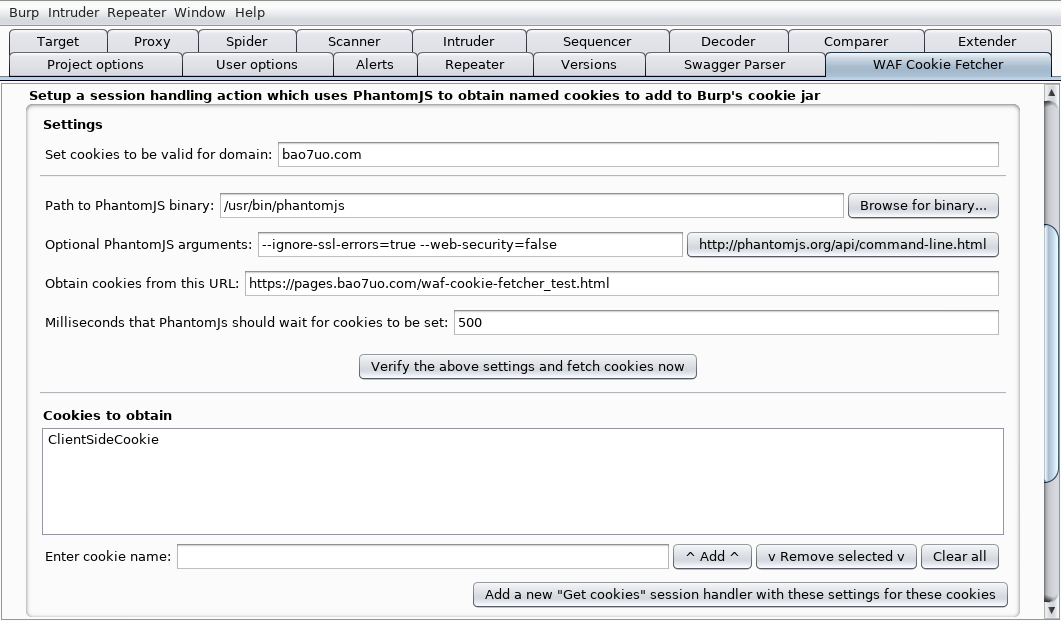
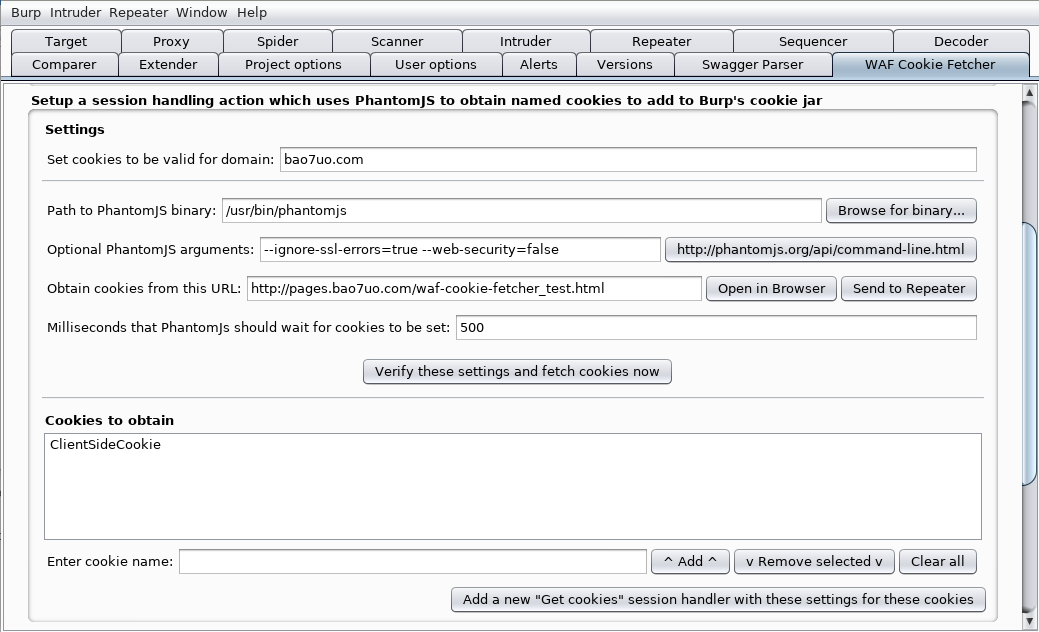
Demo feature incorporated

Changed region(s): [[0.0, 0.0, 1.0, 1.0], [0.9856, 0.7343, 1.0, 0.7955], [0.9856, 0.3366, 1.0, 0.3671]]

diff --git a/waf-cookie-fetcher.py b/waf-cookie-fetcher.py
@@ -38,13 +38,70 @@ from subprocess import Popen, PIPE
 
 from json import loads as json_loads
 
+from urlparse import urlparse
 
 class cb():
 
     callbacks = None
 
+    demo_url = "http://pages.bao7uo.com/waf-cookie-fetcher_test.html"
+    demo_domain = "bao7uo.com"
+    demo_cookie = "ClientSideCookie"
+
+    demo_json = """\
+{"project_options":{"sessions":
+{
+    "session_handling_rules":
+    {
+        "rules":
+        [
+            {"actions":
+                [
+                  {
+                    "action_name":"Get cookies (bao7uo.com): ClientSideCookie",
+                    "enabled":true,
+                    "type":"invoke_extension"
+                  },
+                  {
+                    "enabled":true,
+                    "match_cookies":"all_except",
+                    "type":"use_cookies"
+                  }
+                ],
+                "description":"WAF Cookie Fetcher demo",
+                "enabled":true,
+                "exclude_from_scope":[],
+                "include_in_scope":[],
+                "named_params":[],
+                "restrict_scope_to_named_params":false,
+                "tools_scope":
+                    ["Target","Spider","Scanner","Intruder","Repeater","Sequencer"],
+                "url_scope":"all",
+                "url_scope_advanced_mode":false
+            },
+        ]
+    }
+} } }
+"""
+
     def __init__(self, callbacks):
         cb.callbacks = callbacks
+        cb.helpers = callbacks.getHelpers()
+
+    @staticmethod
+    def send_url_to_repeater(url):
+        request = cb.helpers.buildHttpRequest(URI(url).toURL())
+
+        parsed_url = urlparse(url)
+        port = parsed_url.port
+        port = int(port) if port is not None else 80
+        cb.callbacks.sendToRepeater(
+                        parsed_url.hostname,
+                        port,
+                        True if parsed_url.scheme == "https" else False,
+                        request,
+                        "WCF"
+                    )
 
 
 class PhantomJS():
@@ -324,7 +381,7 @@ class PTTextField(JPanel):
     def getText(self):
         return self._textfield.getText()
 
-    def __init__(self, name, label, text, function=None, button=None):
+    def __init__(self, name, label, text, function=None, button1=None, button2=None):
 
         length = 1000
         self._name = name
@@ -334,9 +391,12 @@ class PTTextField(JPanel):
             else JTextField(length, actionPerformed=function)
         self.add(self._label)
         self.add(self._textfield)
-        if button is not None:
-            self._button = button
-            self.add(self._button)
+        if button1 is not None:
+            self._button1 = button1
+            self.add(self._button1)
+        if button2 is not None:
+            self._button2 = button2
+            self.add(self._button2)
         self.setBorder(BorderFactory.createEmptyBorder(5, 5, 5, 5))
         self._textfield.setText("0" * length)
         self._textfield.setMaximumSize(self._textfield.getPreferredSize())
@@ -610,7 +670,7 @@ class Panel_Fetch_Update_Cookies(JPanel):
         self._update_values()
         listElements = self._rowpanel2.getAllElements()
         if len(listElements) > 0:
-            self.sha_fetch_update = SHA_Fetch_Update_Cookies(
+            SHA_Fetch_Update_Cookies(
                 self.values["phantomJS_path"],
                 self.values["phantomJS_args"],
                 self.values["url"],
@@ -624,9 +684,27 @@ class Panel_Fetch_Update_Cookies(JPanel):
         if binary is not None:
             self._set_value("phantomJS_path", binary)
 
-    def _button_args_pressed(self, msg):
+    def _get_btn_field_value(self, msg):
+        field = msg.getSource().getParent()
+        field_name = field.getName()
+        field_value = field.getText()
+        return [field_name, field_value]
 
-        Desktop.getDesktop().browse(URI(PhantomJS.uri))
+    def _button_web_browser_pressed(self, msg):
+        url = "http://pages.bao7uo.com"
+
+        field = self._get_btn_field_value(msg)
+
+        if field[0] == "phantomJS_args":
+            url = PhantomJS.uri
+        elif field[0] == "url":
+            url = field[1]
+
+        Desktop.getDesktop().browse(URI(url))
+
+    def _button_repeater_pressed(self, msg):
+        url = self._get_btn_field_value(msg)[1]
+        cb.send_url_to_repeater(url)
 
     def __init__(self):
 
@@ -634,7 +712,7 @@ class Panel_Fetch_Update_Cookies(JPanel):
                     PTTextField(
                             "domain",
                             "Set cookies to be valid for domain: ",
-                            "bao7uo.com", None
+                            cb.demo_domain, None
                         ),
                     PTSeparator(),
                     PTTextField(
@@ -646,19 +724,29 @@ class Panel_Fetch_Update_Cookies(JPanel):
                             )
                         ),
                     PTTextField(
-                            "phantomJS_args", "Optional PhantomJS arguments: ",
+                            "phantomJS_args",
+                            "Optional PhantomJS arguments: ",
                             "--ignore-ssl-errors=true" +
                             " --web-security=false",
                             None,
                             JButton(
                                 PhantomJS.uri,
-                                actionPerformed=self._button_args_pressed
+                                actionPerformed=self._button_web_browser_pressed
                             )
                         ),
                     PTTextField(
                             "url",
                             "Obtain cookies from this URL: ",
-                            "https://pages.bao7uo.com/waf-cookie-fetcher_test.html", None
+                            cb.demo_url,
+                            None,
+                            JButton(
+                                "Open in Browser",
+                                actionPerformed=self._button_web_browser_pressed
+                            ),
+                            JButton(
+                                "Send to Repeater",
+                                actionPerformed=self._button_repeater_pressed
+                            )
                         ),
                     PTTextField(
                             "duration",
@@ -686,7 +774,7 @@ class Panel_Fetch_Update_Cookies(JPanel):
                                         )
                         )
 
-        self._rowpanel2 = PTListPanel("Cookies to obtain", ["ClientSideCookie"])
+        self._rowpanel2 = PTListPanel("Cookies to obtain", [cb.demo_cookie])
 
         self._rowpanel3 = JPanel()
         self._rowpanel3.setLayout(BoxLayout(self._rowpanel3, BoxLayout.X_AXIS))
@@ -766,6 +854,25 @@ class actionlistener(ActionListener):
 
     def __init__(self, target):
         self.target = target
+
+
+class border_X_panel(JPanel):
+    def __init__(self):
+        self.setLayout(
+                BoxLayout(
+                    self,
+                    BoxLayout.X_AXIS
+                )
+            )
+        self.setBorder(
+                BorderFactory.createEmptyBorder(5, 5, 5, 5)
+            )
+
+
+class button_panel(border_X_panel):
+    def __init__(self, title, actionperformed):
+        button = JButton(title, actionPerformed=actionperformed)
+        self.add(button)
 
 
 class Panel_Extension(JPanel):
@@ -911,6 +1018,42 @@ class Panel_Extension(JPanel):
     def _button_save_fields_pressed(self, msg):
         self.save_fields(self._profile_textfield.getText())
 
+    def _button_demo_pressed(self, msg):
+        if JOptionPane.showConfirmDialog(
+            msg.getSource().getParent().getParent(),
+            "This will clear all session handling rules in Burp's \n" +
+            "\"Project options -> Sessions\"\n" +
+            "tab, even rules not produced by this extension. They\n" +
+            "will be replaced with a sample/demo rule containing an\n" +
+            "invoke extension session handler action.\"\n\n" +
+            "A request which can be used for the demo will be sent\n" +
+            "to the Repeater tab.\n\n" +
+            "The demo URL will be placed in the settings, and the\n" +
+            "contents of the \"Cookies to obtain\" list will be\n"+
+            "replaced with a single demo cookie named\n" +
+            "\"ClientSideCookie\"\n\n" +
+            "Please check the PhantomJS settings, then click on\n" +
+            "\'Add a new \"Get Cookies\" session handler\'.\n\n" +
+            "Are you sure you want to remove any existing session\n" +
+            "handling rules?",
+            "Burp Suite / WAF Cookie Fetcher",
+            JOptionPane.YES_NO_OPTION
+        ) == JOptionPane.YES_OPTION:
+            panel_update_cookies = self.getParent().panel_update_cookies
+            for field in \
+                    panel_update_cookies.fields:
+                if "getText" in dir(field) and "getName" in dir(field):
+                    field_name = field.getName()
+                    if field_name == "url":
+                        field.setText(cb.demo_url)
+                    if field_name == "domain":
+                        field.setText(cb.demo_domain)
+            panel_update_cookies._rowpanel2.removeAllElements()
+            panel_update_cookies._rowpanel2.addelement(cb.demo_cookie)
+
+            cb.callbacks.loadConfigFromJson(cb.demo_json)
+            cb.send_url_to_repeater(cb.demo_url)
+
     def _button_quit_pressed(self, msg):
         cb.callbacks.unloadExtension()
 
@@ -935,22 +1078,16 @@ class Panel_Extension(JPanel):
                                 )
         self._profiles_combo.removeItem("0" * 40)
 
-        self._profiles_combo_panel = JPanel()
-        self._profiles_combo_panel.setLayout(
-                                    BoxLayout(
-                                        self._profiles_combo_panel,
-                                        BoxLayout.X_AXIS
-                                        )
-                                    )
-        self._profiles_combo_panel.setBorder(
-                                    BorderFactory.createEmptyBorder(5, 5, 5, 5)
-                                    )
+        self._profiles_combo_panel = border_X_panel()
 
-        self._quit_panel = JPanel()
-        self._quit_panel.setLayout(
-                                BoxLayout(self._quit_panel, BoxLayout.X_AXIS)
+        self._demo_panel = button_panel(
+                            "Demo",
+                            self._button_demo_pressed
                             )
-        self._quit_panel.setBorder(BorderFactory.createEmptyBorder(5, 5, 5, 5))
+        self._quit_panel = button_panel(
+                            "Unload WAF Cookie Fetcher",
+                            self._button_quit_pressed
+                            )
 
         self._profile_textfield = \
             PTTextField(
@@ -973,14 +1110,6 @@ class Panel_Extension(JPanel):
 
         self._profiles_combo_panel.add(self._button_delete_profile)
 
-        self._button_quit = \
-            JButton(
-                    "Unload WAF Cookie Fetcher",
-                    actionPerformed=self._button_quit_pressed
-                    )
-
-        self._quit_panel.add(self._button_quit)
-
         self._profiles_combo.addActionListener(actionlistener(self))
 
         self._rowpanel1.add(self._profiles_combo_panel)
@@ -989,6 +1118,7 @@ class Panel_Extension(JPanel):
 
         self._rowpanel1.add(Box.createHorizontalGlue())
 
+        self._rowpanel1.add(self._demo_panel)
         self._rowpanel1.add(self._quit_panel)
 
         self.add(self._rowpanel1)

diff --git a/README.md b/README.md
@@ -101,12 +101,12 @@ This project is still under development.
 - Exception handling
 
 #### Potential future features may include:
-- [x] "Test" button to pull in cookies and add them to list (IMPLEMENTED)
-- Automatically add demo to session rules and repeater
-- Send target URL to repeater
-- Burp session management configuration profiles (using load/saveConfigAsJson)
-- Allow cookie names to be specified as a regex, or to add all cookies found by PhantomJS
-- Get other types of data/fields from phantom
+- [x] "Test" button to pull in cookies and add them to list
+- [x] Automatically add demo to session rules and repeater
+- [x] Send target URL to repeater
+- [] Burp session management configuration profiles (using load/saveConfigAsJson)
+- [] Allow cookie names to be specified as a regex, or to add all cookies found by PhantomJS
+- [] Get other types of data/fields from phantom
 
 ## Contribute
 Contributions, feedback and ideas will be appreciated.
